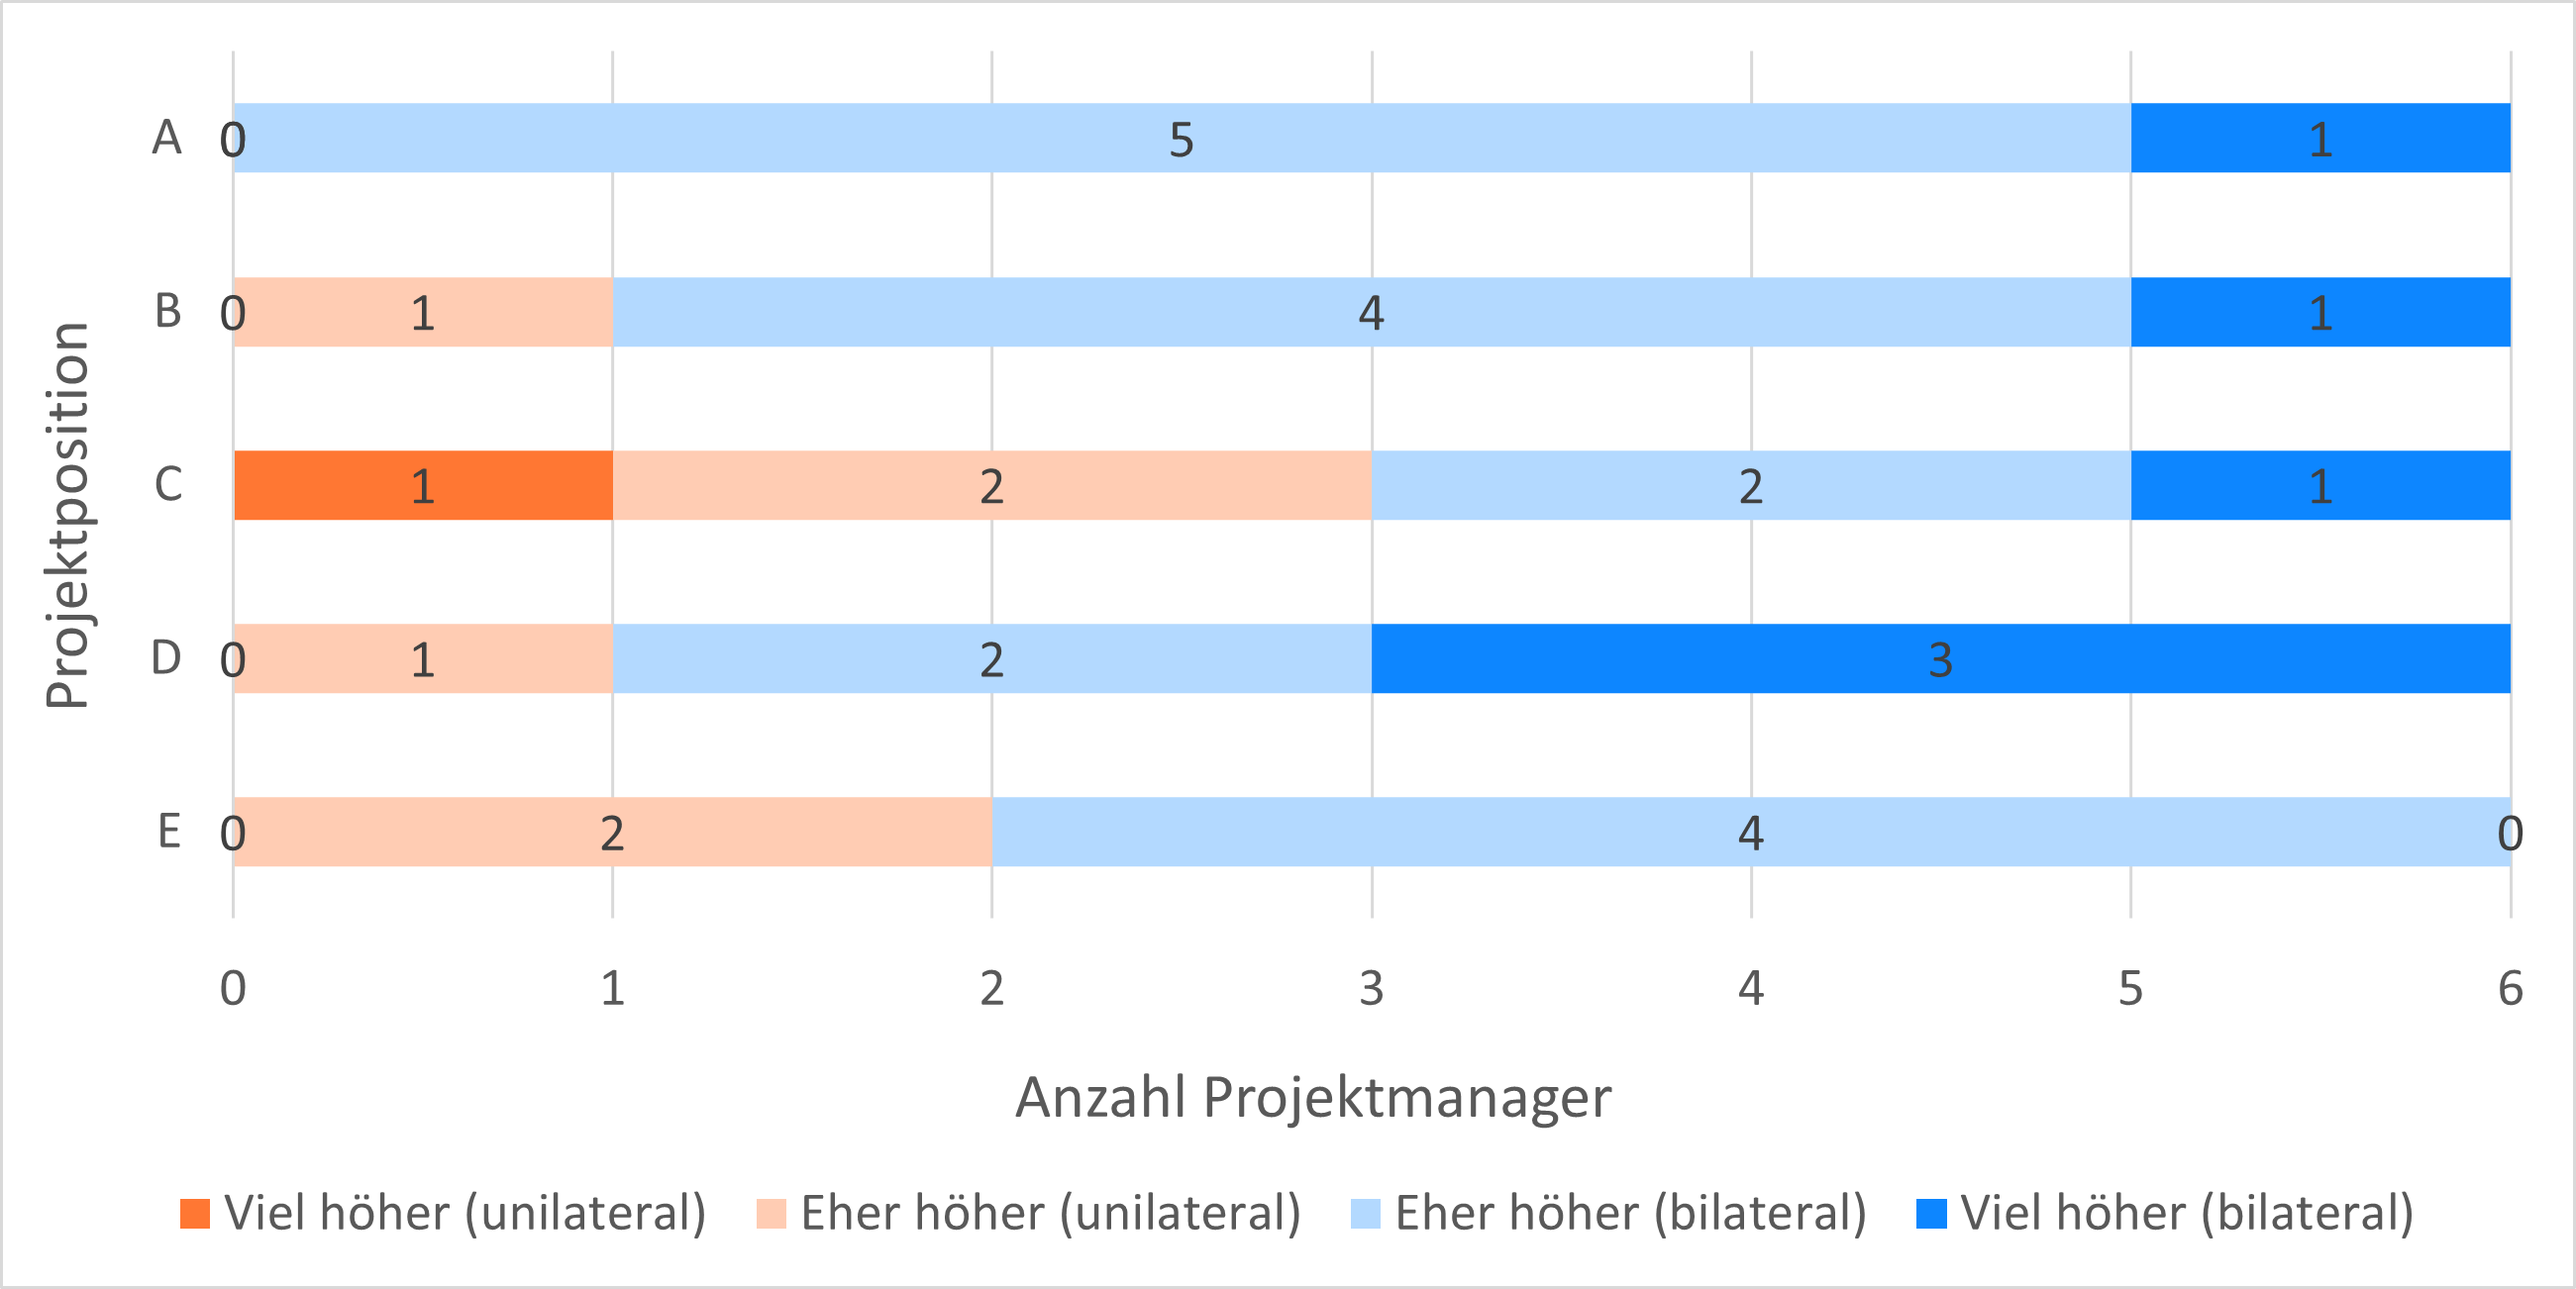
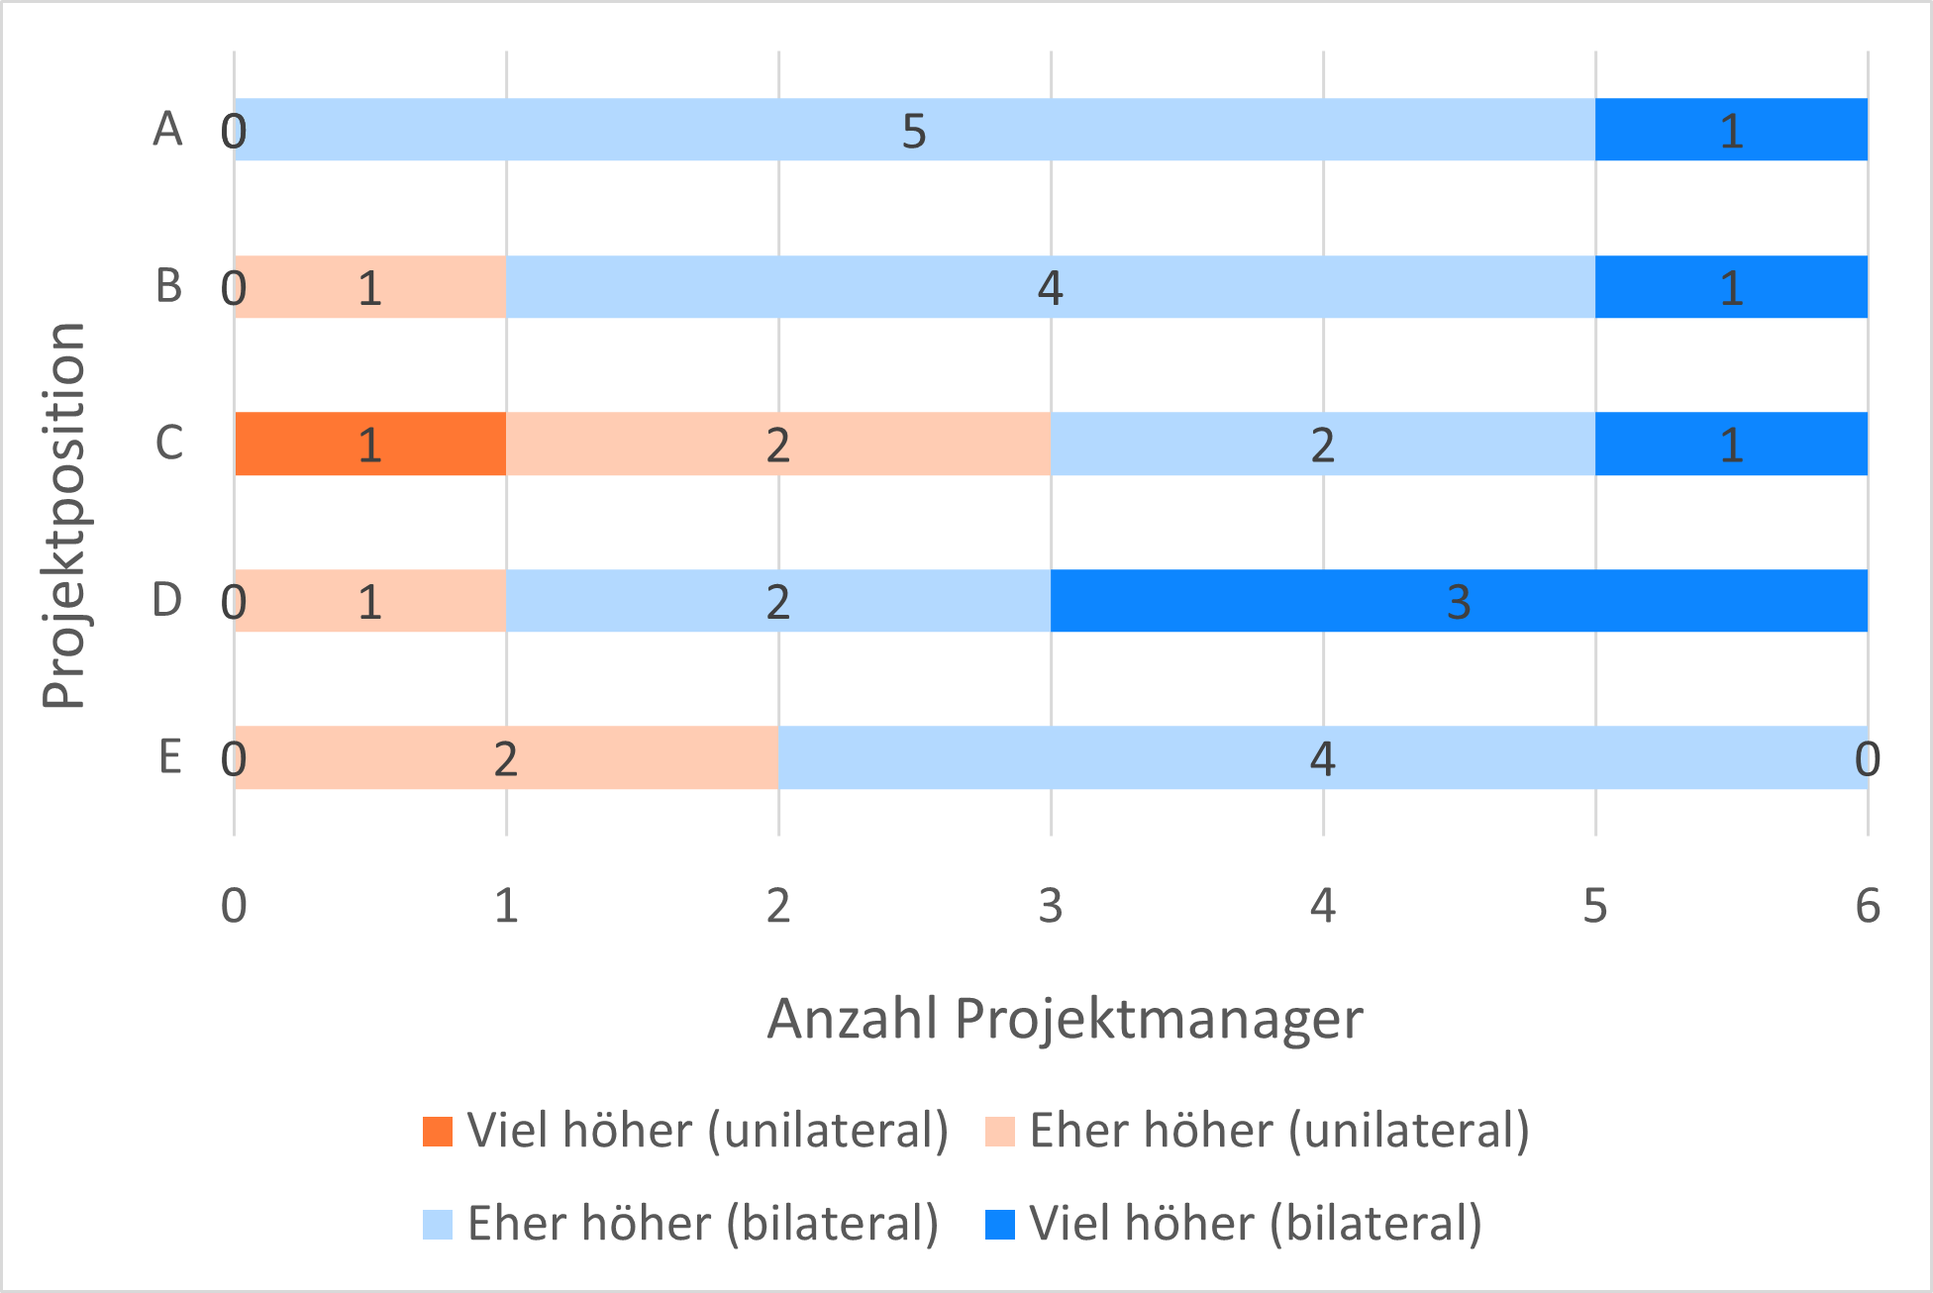
Grafiken optimiert

diff --git a/chapters/ergebnisse.tex b/chapters/ergebnisse.tex
@@ -50,7 +50,7 @@ In der in Kapitel \ref{ch:methodik:evaluation} vorgestellten Umfrage wurde erhob
 
 \begin{figure}[h]
 	\centering
-	\includegraphics[width=1\textwidth]{gfx/mitarbeiter-zufriedenheit-umfrage.png}
+	\includegraphics[width=0.9\textwidth]{gfx/mitarbeiter-zufriedenheit-umfrage.png}
 	\caption{Anzahl an Mitarbeitern, welche zufrieden bzw. unzufrieden mit der Tätigkeit auf den jeweiligen Beispielprojektpositionen wären}
 	\label{fig:ergebnisse:fallstudie:abb1}
 \end{figure}
@@ -61,7 +61,7 @@ Abbildung \ref{fig:ergebnisse:analyse:abb7} zeigt, für wie viele der 23 befragt
 
 \begin{figure}[h]
 	\centering
-	\includegraphics[width=1\textwidth]{gfx/zufriedenheit-projekte.png}	
+	\includegraphics[width=0.9\textwidth]{gfx/zufriedenheit-projekte.png}	
 	\caption{Ergebnisse des bilateralen Empfehlungsansatzes im Vergleich zum unilateralen Vorgehen hinsichtlich der Mitarbeiterzufriedenheit}
 	\label{fig:ergebnisse:analyse:abb7}
 \end{figure}
@@ -76,7 +76,7 @@ Abbildung \ref{fig:ergebnisse:fallstudie:arbeitsleistung:abb1} zeigt, von den Mi
 
 \begin{figure}[h]
 	\centering
-	\includegraphics[width=1\textwidth]{gfx/ergebnisse-projektmanager-arbeitsleistung.png}	
+	\includegraphics[width=0.9\textwidth]{gfx/ergebnisse-projektmanager-arbeitsleistung.png}	
 	\caption{Ergebnisse der Umfrage unter den Projektmanager hinsichtlich der erwarteten Arbeitsleistung der Mitarbeiter}
 	\label{fig:ergebnisse:fallstudie:arbeitsleistung:abb1}
 \end{figure}
@@ -85,8 +85,7 @@ An den Ergebnissen aus Abbildung \ref{fig:ergebnisse:fallstudie:arbeitsleistung:
 
 Einzig bei den Vorschläge für Projektposition C in Abbildung \ref{fig:ergebnisse:fallstudie:arbeitsleistung:abb1} sind keine Unterschiede zwischen der erwarteten Arbeitsleistung des uni- und des bilateralen Empfehlungssystems erkennbar.
 
-
-
 \subsection{Einschätzungen hinsichtlich möglicher Unterforderung}
 \label{ch:ergebnisse:fallstudie:kurven}
+
 \shorthandon{"}
